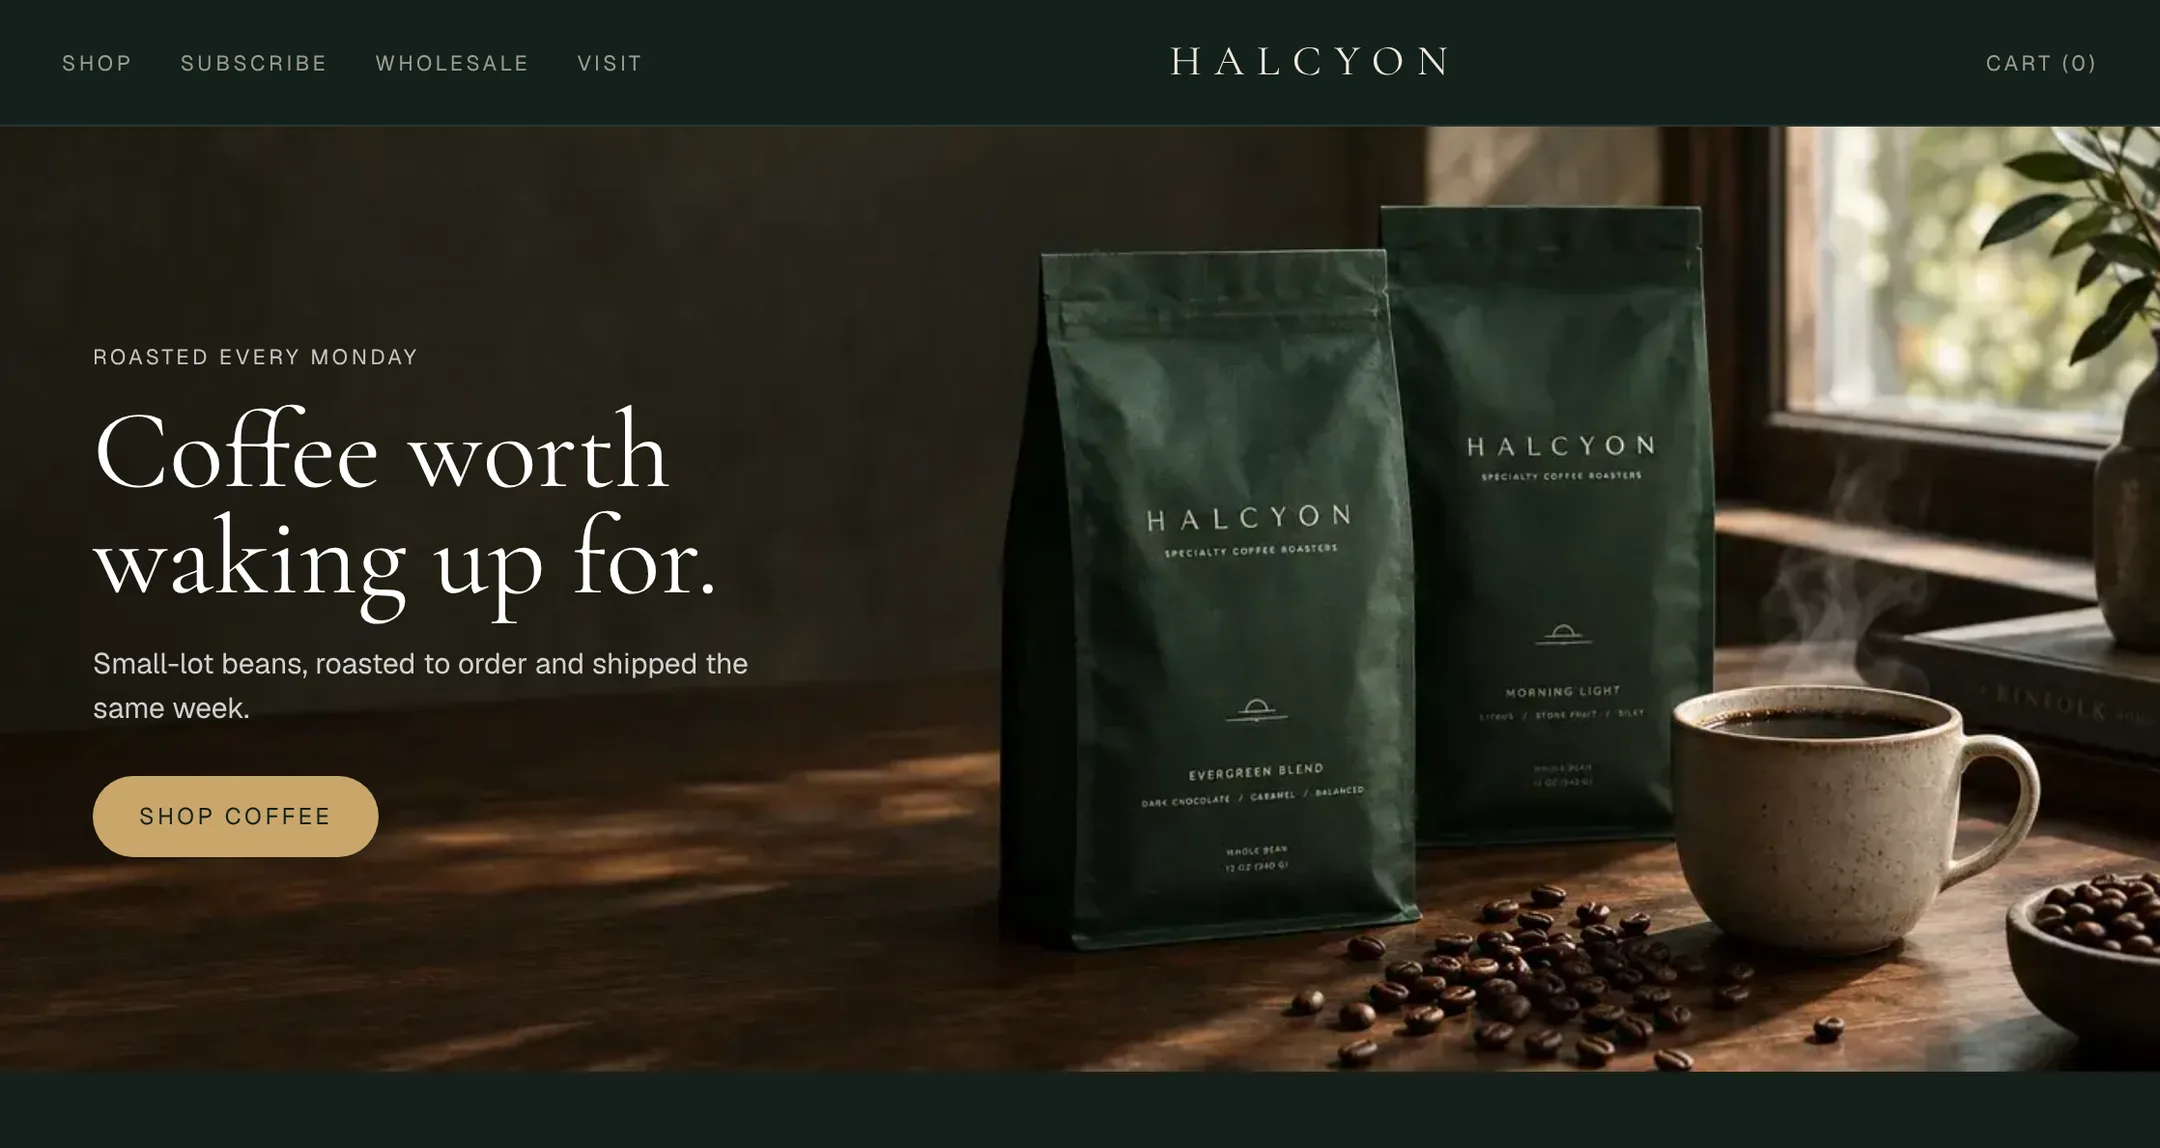
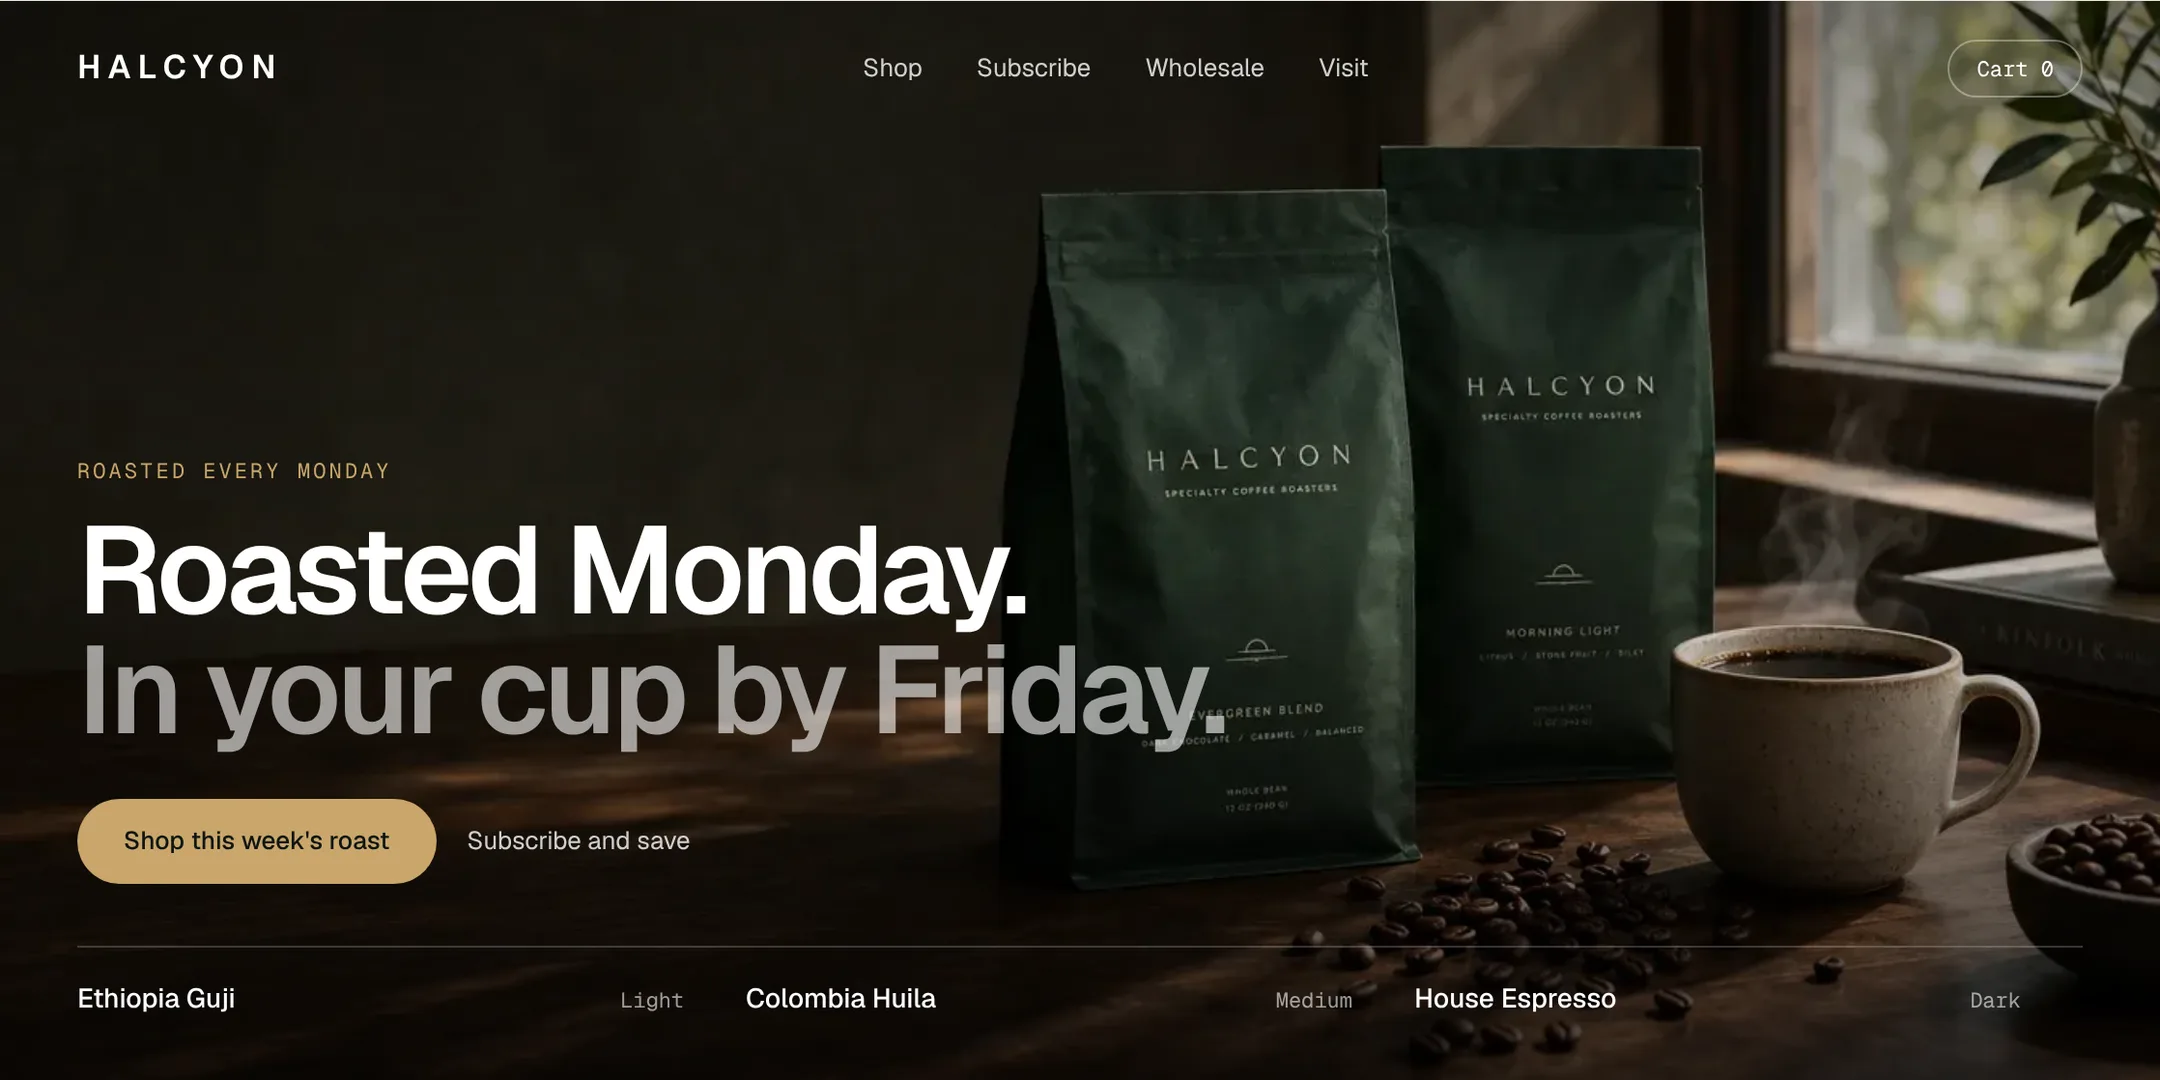
Give Solenne and Halcyon their own premium designs (#30)
They shared one template (spaced serif logo, left text over a full photo),
so they looked like the same build. Now:

- Solenne: editorial and light. Announcement bar, italic serif wordmark,
  centered links, a big serif headline beside an arched photo, ingredient
  row, square-cornered button.
- Halcyon: immersive and dark. Full-bleed photo under a transparent nav,
  a heavy sans headline, a brass pill button and this week's roasts along
  the bottom, with mono details. Sans type through the store.

New desktop screenshots of both replace the old ones in the homepage
collage, the website development page and the guided brief.

Claude-Session: https://claude.ai/code/session_016nrPvwMRLxmF3Bu4dr5rcE

diff --git a/src/components/storefront.tsx b/src/components/storefront.tsx
@@ -25,32 +25,40 @@ export function Storefront({ s }: { s: Showcase }) {
       </div>
 
       <div style={{ background: t.bg, color: t.ink }}>
+        {t.layout === "split" ? (
+          <SplitTop s={s} />
+        ) : t.layout === "immersive" ? (
+          <ImmersiveTop s={s} />
+        ) : (
+          <>
         {/* Nav */}
-        <div className="flex items-center justify-between px-5 py-4 sm:px-8" style={{ borderBottom: `1px solid ${t.ink}1a` }}>
-          <span className={`hidden gap-6 sm:flex ${label}`} style={soft}>
-            {s.nav.map((n) => <span key={n}>{n}</span>)}
-          </span>
-          <span className={`text-[22px] ${t.type === "serif" ? "font-serif tracking-[0.3em]" : "font-black italic tracking-[0.06em]"}`}>{s.brand.toUpperCase()}</span>
-          <span className={label} style={soft}>Cart (0)</span>
-        </div>
-
-        {/* Hero */}
-        <div className="relative aspect-[4/5] sm:aspect-[16/7]">
-          <Image src={s.hero.src} alt={`${s.brand} storefront hero`} fill sizes="(min-width: 1160px) 1120px, 100vw" className="object-cover" />
-          {(t.dark || t.type === "bold") && <div className="absolute inset-0 bg-gradient-to-t from-black/60 via-black/10 to-transparent sm:hidden" aria-hidden="true" />}
-          <div className={`absolute inset-0 flex flex-col justify-end p-6 sm:w-1/2 sm:justify-center sm:p-12 ${t.dark || t.type === "bold" ? "text-white" : ""}`} style={t.dark || t.type === "bold" ? undefined : { color: t.ink }}>
-            <p className={label} style={{ opacity: 0.75 }}>{s.hero.eyebrow}</p>
-            <p className={`mt-3 text-[40px] leading-[0.95] sm:text-[58px] ${display}`}>
-              {s.hero.title[0]}
-              <br />
-              {s.hero.title[1]}
-            </p>
-            <p className="mt-4 max-w-[340px] text-[15px] leading-[1.55]" style={{ opacity: 0.8 }}>{s.hero.body}</p>
-            <span className={`mt-6 inline-flex w-fit px-6 py-3 text-[12px] uppercase tracking-[0.14em] ${btn}`} style={{ background: t.accent, color: t.accentInk }}>
-              {s.hero.cta}
-            </span>
-          </div>
-        </div>
+            <div className="flex items-center justify-between px-5 py-4 sm:px-8" style={{ borderBottom: `1px solid ${t.ink}1a` }}>
+              <span className={`hidden gap-6 sm:flex ${label}`} style={soft}>
+                {s.nav.map((n) => <span key={n}>{n}</span>)}
+              </span>
+              <span className={`text-[22px] ${t.type === "serif" ? "font-serif tracking-[0.3em]" : "font-black italic tracking-[0.06em]"}`}>{s.brand.toUpperCase()}</span>
+              <span className={label} style={soft}>Cart (0)</span>
+            </div>
+    
+            {/* Hero */}
+            <div className="relative aspect-[4/5] sm:aspect-[16/7]">
+              <Image src={s.hero.src} alt={`${s.brand} storefront hero`} fill sizes="(min-width: 1160px) 1120px, 100vw" className="object-cover" />
+              {(t.dark || t.type === "bold") && <div className="absolute inset-0 bg-gradient-to-t from-black/60 via-black/10 to-transparent sm:hidden" aria-hidden="true" />}
+              <div className={`absolute inset-0 flex flex-col justify-end p-6 sm:w-1/2 sm:justify-center sm:p-12 ${t.dark || t.type === "bold" ? "text-white" : ""}`} style={t.dark || t.type === "bold" ? undefined : { color: t.ink }}>
+                <p className={label} style={{ opacity: 0.75 }}>{s.hero.eyebrow}</p>
+                <p className={`mt-3 text-[40px] leading-[0.95] sm:text-[58px] ${display}`}>
+                  {s.hero.title[0]}
+                  <br />
+                  {s.hero.title[1]}
+                </p>
+                <p className="mt-4 max-w-[340px] text-[15px] leading-[1.55]" style={{ opacity: 0.8 }}>{s.hero.body}</p>
+                <span className={`mt-6 inline-flex w-fit px-6 py-3 text-[12px] uppercase tracking-[0.14em] ${btn}`} style={{ background: t.accent, color: t.accentInk }}>
+                  {s.hero.cta}
+                </span>
+              </div>
+            </div>
+          </>
+        )}
 
         {/* Products */}
         <div className="px-5 py-10 sm:px-8 sm:py-14">
@@ -90,11 +98,99 @@ export function Storefront({ s }: { s: Showcase }) {
 
         {/* Footer */}
         <div className="flex flex-col gap-4 px-5 py-8 sm:flex-row sm:items-center sm:justify-between sm:px-8" style={{ borderTop: `1px solid ${t.ink}1a` }}>
-          <span className={`text-[18px] ${t.type === "serif" ? "font-serif tracking-[0.3em]" : "font-black italic tracking-[0.06em]"}`}>{s.brand.toUpperCase()}</span>
+          {t.layout === "split" ? (
+            <span className="font-serif text-[24px] italic">{s.brand}</span>
+          ) : t.layout === "immersive" ? (
+            <span className="text-[15px] font-semibold tracking-[0.22em]">{s.brand.toUpperCase()}</span>
+          ) : (
+            <span className={`text-[18px] ${t.type === "serif" ? "font-serif tracking-[0.3em]" : "font-black italic tracking-[0.06em]"}`}>{s.brand.toUpperCase()}</span>
+          )}
           <span className="flex flex-wrap items-center gap-2">
             <span className={label} style={soft}>Join the list</span>
             <span className="h-9 w-44 rounded-full border px-4 text-[12px] leading-9" style={{ borderColor: `${t.ink}33`, ...soft }}>Email address</span>
           </span>
+        </div>
+      </div>
+    </div>
+  );
+}
+
+/** Editorial skincare: serif logo left, centered links, text beside an arched photo. */
+function SplitTop({ s }: { s: Showcase }) {
+  const t = s.theme;
+  const line = `1px solid ${t.ink}1a`;
+  return (
+    <>
+      <div className="px-5 py-2 text-center text-[11px] tracking-[0.08em]" style={{ background: t.ink, color: t.bg }}>
+        Complimentary samples with every ritual
+      </div>
+      <div className="grid grid-cols-[1fr_auto] items-center px-5 py-5 sm:grid-cols-[1fr_auto_1fr] sm:px-10" style={{ borderBottom: line }}>
+        <span className="font-serif text-[28px] italic leading-none">Solenne</span>
+        <span className="hidden gap-8 text-[13px] sm:flex" style={{ opacity: 0.75 }}>
+          {s.nav.map((n) => <span key={n}>{n}</span>)}
+        </span>
+        <span className="justify-self-end text-[13px]" style={{ opacity: 0.75 }}>Search&nbsp;&nbsp;·&nbsp;&nbsp;Bag (0)</span>
+      </div>
+      <div className="grid items-center gap-8 px-5 py-10 sm:grid-cols-[1.3fr_1fr] sm:gap-14 sm:px-10 sm:py-10">
+        <div className="order-2 sm:order-1">
+          <p className="text-[12px] tracking-[0.08em]" style={{ opacity: 0.6 }}>{s.hero.eyebrow}</p>
+          <p className="mt-4 font-serif text-[46px] font-normal leading-[0.98] tracking-[-0.01em] sm:text-[72px]">
+            Skin, <em>quietly</em>
+            <br />
+            restored.
+          </p>
+          <p className="mt-5 max-w-[360px] text-[15.5px] leading-[1.6]" style={{ opacity: 0.72 }}>{s.hero.body}</p>
+          <div className="mt-8 flex flex-wrap items-center gap-6">
+            <span className="inline-flex px-7 py-3.5 text-[13px] tracking-[0.04em]" style={{ background: t.accent, color: t.accentInk }}>{s.hero.cta}</span>
+            <span className="text-[13px] underline underline-offset-4" style={{ opacity: 0.8 }}>Find your routine</span>
+          </div>
+          <div className="mt-10 flex gap-6 text-[12px]" style={{ opacity: 0.6, borderTop: line, paddingTop: 16 }}>
+            <span>Bakuchiol</span>
+            <span>Niacinamide</span>
+            <span>Squalane</span>
+            <span>Ceramides</span>
+          </div>
+        </div>
+        <div className="relative order-1 aspect-[4/5] overflow-hidden rounded-t-[999px] sm:order-2 sm:aspect-square">
+          <Image src={s.hero.src} alt={`${s.brand} storefront hero`} fill sizes="(min-width: 1160px) 520px, 100vw" className="object-cover object-[60%_50%]" />
+        </div>
+      </div>
+    </>
+  );
+}
+
+/** Roaster: full-bleed photo under a transparent nav, this week's roasts along the bottom. */
+function ImmersiveTop({ s }: { s: Showcase }) {
+  const t = s.theme;
+  return (
+    <div className="relative aspect-[4/5] text-white sm:aspect-[16/8]">
+      <Image src={s.hero.src} alt={`${s.brand} storefront hero`} fill sizes="(min-width: 1160px) 1120px, 100vw" className="object-cover" />
+      <div className="absolute inset-0 bg-gradient-to-b from-black/45 via-black/10 to-black/75" aria-hidden="true" />
+      <div className="absolute inset-x-0 top-0 flex items-center justify-between px-5 py-5 sm:px-10">
+        <span className="text-[17px] font-semibold tracking-[0.22em]">HALCYON</span>
+        <span className="hidden gap-7 text-[13px] text-white/80 sm:flex">
+          {s.nav.map((n) => <span key={n}>{n}</span>)}
+        </span>
+        <span className="rounded-full border border-white/35 px-3.5 py-1.5 font-mono text-[11px]">Cart 0</span>
+      </div>
+      <div className="absolute inset-x-0 bottom-0 px-5 pb-6 sm:px-10 sm:pb-8">
+        <p className="font-mono text-[11px] uppercase tracking-[0.14em]" style={{ color: t.accent }}>{s.hero.eyebrow}</p>
+        <p className="mt-3 max-w-[640px] text-[40px] font-semibold leading-[0.98] tracking-[-0.035em] sm:text-[64px]">
+          {s.hero.title[0]}
+          <br />
+          <span className="text-white/60">{s.hero.title[1]}</span>
+        </p>
+        <div className="mt-6 flex flex-wrap items-center gap-4">
+          <span className="inline-flex rounded-full px-6 py-3 text-[13px] font-medium" style={{ background: t.accent, color: t.accentInk }}>{s.hero.cta}</span>
+          <span className="text-[13px] text-white/80">Subscribe and save</span>
+        </div>
+        <div className="mt-8 hidden grid-cols-3 border-t border-white/20 pt-4 sm:grid">
+          {s.products.map((p) => (
+            <div key={p.name} className="flex items-baseline justify-between pr-8">
+              <span className="text-[14px] font-medium">{p.name}</span>
+              <span className="font-mono text-[11px] text-white/60">{p.note.split(" · ")[1] ?? ""}</span>
+            </div>
+          ))}
         </div>
       </div>
     </div>

diff --git a/src/lib/showcase.ts b/src/lib/showcase.ts
@@ -20,6 +20,8 @@ export type Showcase = {
     /** "serif" for editorial brands, "bold" for sport, "sans" otherwise. */
     type: "serif" | "bold" | "sans";
     dark?: boolean;
+    /** How the top of the store is laid out, so no two builds look alike. */
+    layout?: "split" | "immersive";
   };
   nav: string[];
   hero: { src: string; eyebrow: string; title: [string, string]; body: string; cta: string };
@@ -34,7 +36,7 @@ export const SHOWCASE: Showcase[] = [
     brand: "Solenne",
     industry: "Skincare",
     summary: "An editorial skincare store with routines, subscriptions and ingredient pages.",
-    theme: { bg: "#f6f1ea", ink: "#2a241e", accent: "#2a241e", accentInk: "#f6f1ea", type: "serif" },
+    theme: { bg: "#f6f1ea", ink: "#2a241e", accent: "#2a241e", accentInk: "#f6f1ea", type: "serif", layout: "split" },
     nav: ["Shop", "Rituals", "Ingredients", "About"],
     hero: { src: "/solenne/hero.webp", eyebrow: "New · The Renewal Ritual", title: ["Skin, quietly", "restored."], body: "Botanical formulas for calm, strong skin. Made in small batches.", cta: "Shop the ritual" },
     products: [
@@ -50,9 +52,9 @@ export const SHOWCASE: Showcase[] = [
     brand: "Halcyon",
     industry: "Coffee & food",
     summary: "A roaster's store with subscriptions, gift boxes and wholesale ordering for cafés.",
-    theme: { bg: "#14201b", ink: "#efe9dd", accent: "#c9a66b", accentInk: "#14201b", type: "serif", dark: true },
+    theme: { bg: "#0f1512", ink: "#ece6da", accent: "#c9a66b", accentInk: "#0f1512", type: "sans", dark: true, layout: "immersive" },
     nav: ["Shop", "Subscribe", "Wholesale", "Visit"],
-    hero: { src: "/sites/halcyon-hero.webp", eyebrow: "Roasted every Monday", title: ["Coffee worth", "waking up for."], body: "Small-lot beans, roasted to order and shipped the same week.", cta: "Shop coffee" },
+    hero: { src: "/sites/halcyon-hero.webp", eyebrow: "Roasted every Monday", title: ["Roasted Monday.", "In your cup by Friday."], body: "Small-lot beans, roasted to order and shipped the same week.", cta: "Shop this week's roast" },
     products: [
       { name: "Ethiopia Guji", note: "Peach, jasmine · Light", price: "$22", src: "/sites/halcyon-bag.webp" },
       { name: "Colombia Huila", note: "Caramel, cherry · Medium", price: "$20", src: "/sites/halcyon-huila.webp" },
